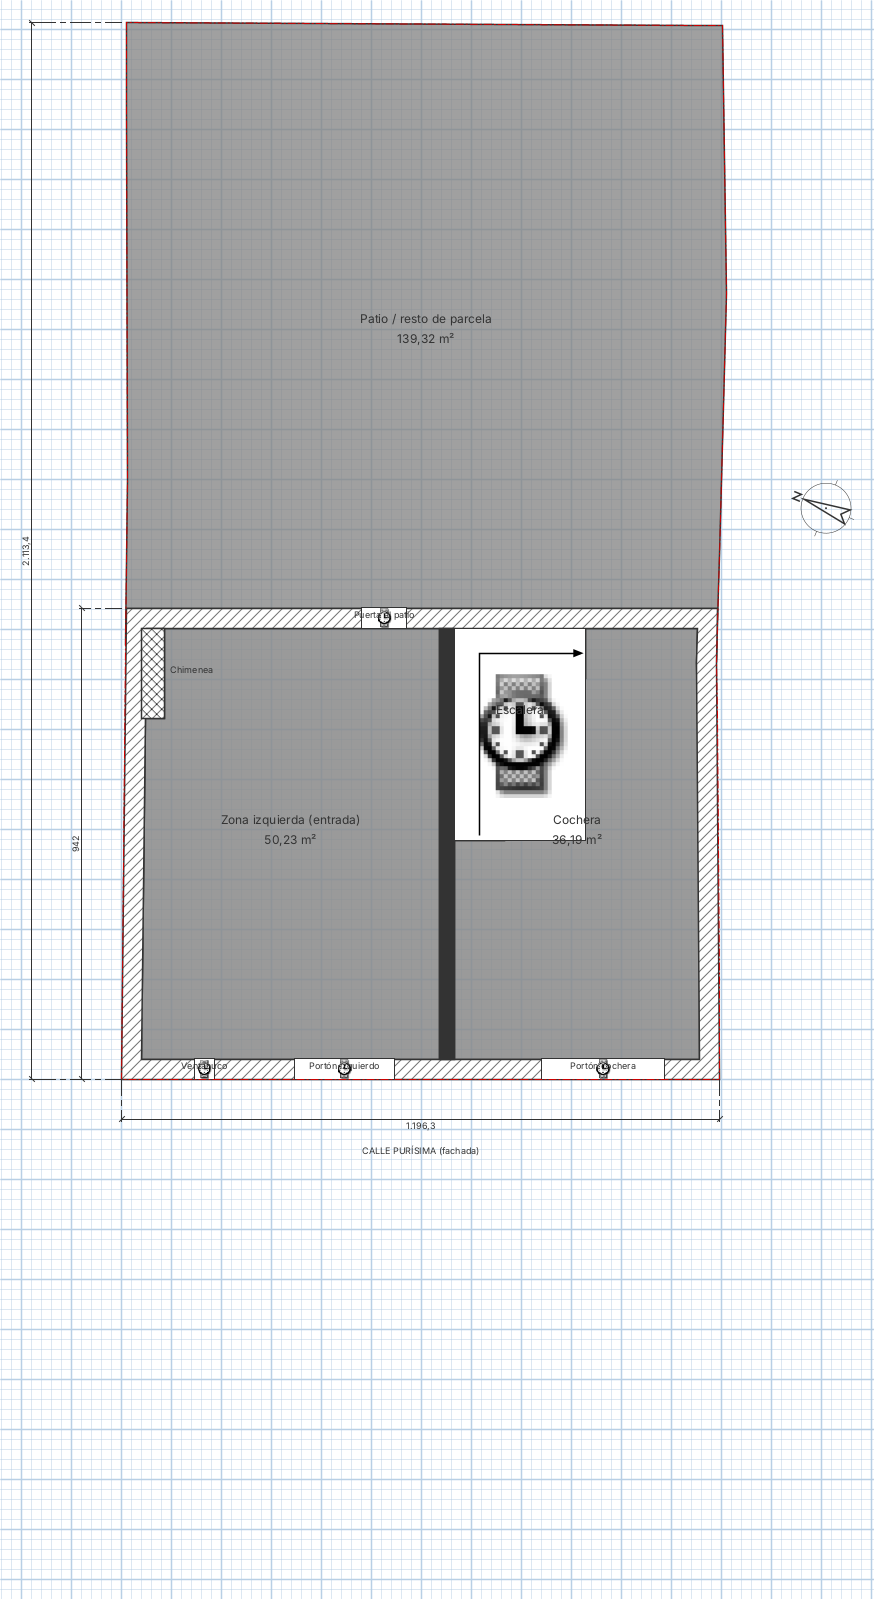
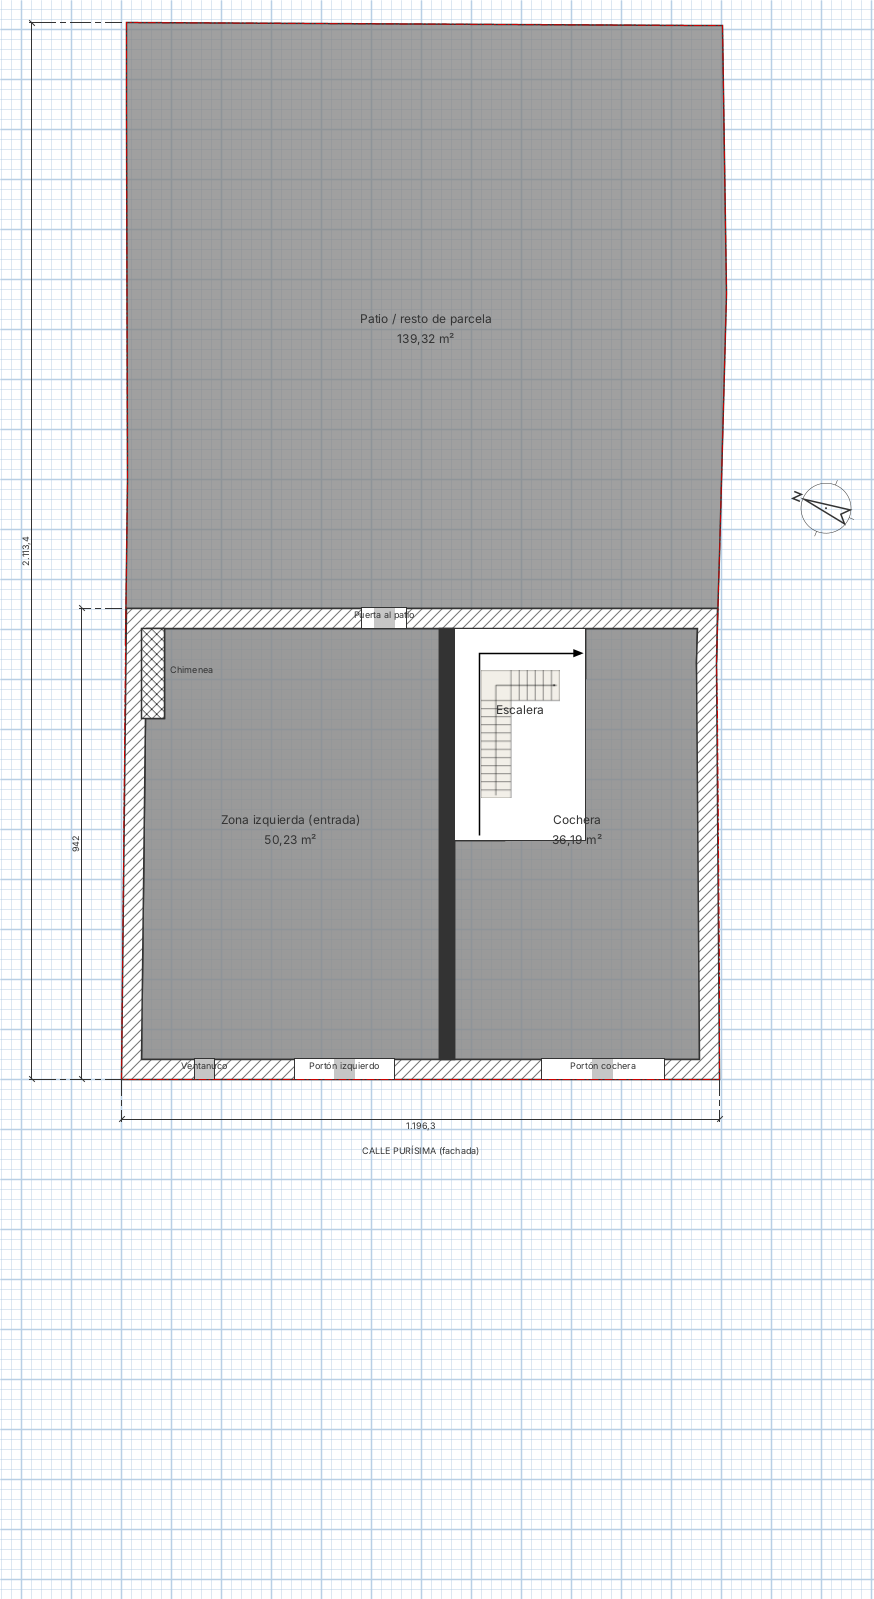
Icono de planta de la escalera con sus peldaños
Claude-Session: https://claude.ai/code/session_01BqJQ7yCwWW4P55yjYQnWAv

diff --git a/tools/generar_sh3d.py b/tools/generar_sh3d.py
@@ -179,6 +179,34 @@ def obj_bloques(bloques, subida):
     return "\n".join(lineas) + "\n"
 
 
+def png_escalera(bloques, recorrido):
+    """Icono de planta de la escalera: peldaños y flecha de subida, fondo transparente."""
+    import io
+    import matplotlib
+    matplotlib.use("Agg")
+    import matplotlib.pyplot as plt
+
+    huella = unary_union([box(*b[:4]) for b in bloques])
+    minx, miny, maxx, maxy = huella.bounds
+    escala = 100  # píxeles por metro
+    fig = plt.figure(figsize=((maxx - minx) * escala / 100, (maxy - miny) * escala / 100), dpi=100)
+    ax = fig.add_axes([0, 0, 1, 1])
+    ax.set_xlim(minx, maxx)
+    ax.set_ylim(miny, maxy)
+    ax.axis("off")
+    for x0, y0, x1, y1, _ in bloques:
+        ax.add_patch(plt.Rectangle((x0, y0), x1 - x0, y1 - y0, facecolor="#f2efe8",
+                                   edgecolor="#333333", linewidth=1.2))
+    xs, ys = zip(*recorrido)
+    ax.plot(xs, ys, color="black", linewidth=1.2)
+    ax.annotate("", xy=recorrido[-1], xytext=recorrido[-2],
+                arrowprops={"arrowstyle": "-|>", "color": "black", "linewidth": 1.2})
+    salida = io.BytesIO()
+    fig.savefig(salida, format="png", transparent=True)
+    plt.close(fig)
+    return salida.getvalue()
+
+
 def png_gris(lado=16):
     fila = b"\x00" + b"\x90" * lado
     datos = zlib.compress(fila * lado)
@@ -351,6 +379,7 @@ def generar(ruta_yaml):
             escalera, bloques, recorrido, n_tabicas, tabica = escalera_en_l(
                 planta["escalera"], variables, subida)
             modelos[f"escalera_{nivel}.obj"] = obj_bloques(bloques, subida)
+            modelos[f"escalera_{nivel}.png"] = png_escalera(bloques, recorrido)
             minx, miny, maxx, maxy = escalera.bounds
             # Hueco en el forjado: contorno de la escalera normalizado a la pieza
             # (0,0 = esquina trasera izquierda del plano).
@@ -359,7 +388,8 @@ def generar(ruta_yaml):
                 for k, (px, py) in enumerate(anillo(escalera))) + " Z"
             h.elemento("pieceOfFurniture", {
                 "id": h.nuevo_id("escalera"), "level": nivel, "name": "Escalera",
-                "icon": "icono.png", "model": f"escalera_{nivel}.obj",
+                "icon": f"escalera_{nivel}.png", "planIcon": f"escalera_{nivel}.png",
+                "model": f"escalera_{nivel}.obj",
                 "x": X((minx + maxx) / 2), "y": Y((miny + maxy) / 2), "elevation": "0",
                 "width": cm(maxx - minx), "depth": cm(maxy - miny), "height": cm(subida + 0.01),
                 "color": "FFB0A898", "movable": "false", "staircaseCutOutShape": camino})

diff --git a/tools/ValidarSH3D.java b/tools/ValidarSH3D.java
@@ -49,6 +49,8 @@ public class ValidarSH3D {
       Dimension tamano = plano.getPreferredSize();
       plano.setSize(tamano);
       BufferedImage imagen = new BufferedImage(tamano.width, tamano.height, BufferedImage.TYPE_INT_RGB);
+      plano.paint(imagen.createGraphics());  // primera pasada: lanza la carga de iconos
+      Thread.sleep(1500);
       Graphics2D g = imagen.createGraphics();
       g.setColor(Color.WHITE);
       g.fillRect(0, 0, tamano.width, tamano.height);
